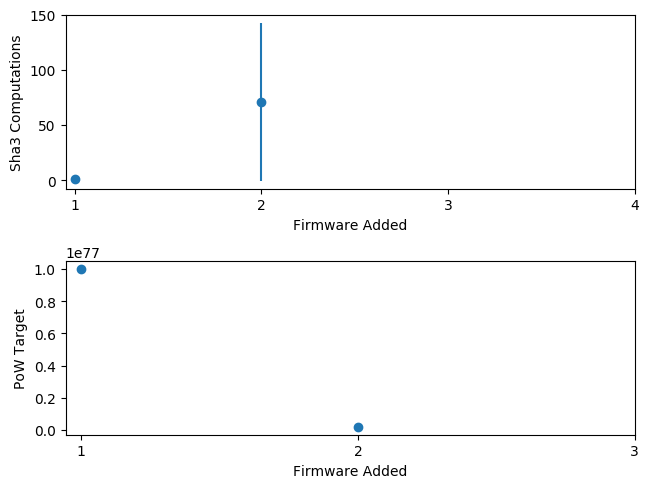
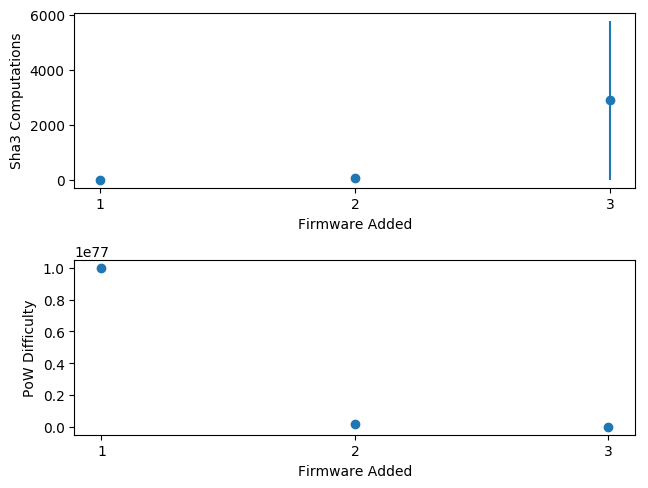
PoW theoretical plotter

diff --git a/evaluation_scripts/pow_calibration_plotter.py b/evaluation_scripts/pow_calibration_plotter.py
@@ -1,0 +1,41 @@
+import matplotlib.pyplot as plt
+import numpy as np
+
+save_dir = './evaluation_scripts/Plots/'
+
+def prob(n):
+    return (10.**77/(2.**256*50.**n))
+
+def expectation(n):
+    return 1/prob(n)
+
+def variance(n):
+    p = prob(n)
+    return (1-p)/(p*p)
+
+max_it = 3
+mean = []
+std = []
+difficulty = []
+x = np.arange(1,max_it+1)
+for ii in range(0,max_it):
+    print("For ii = {} expetation = {} and Std = {}".format(ii+1,expectation(ii),np.sqrt(variance(ii))))
+    mean.append(expectation(ii))
+    std.append(np.sqrt(variance(ii)))
+    difficulty.append(10.**77/(50.**ii))
+
+fig = plt.figure(1)
+plt.subplot(211)
+plt.errorbar(x,mean,std,fmt='o')
+plt.xticks(np.arange(1, max_it+1, step=1))
+plt.xlabel('Firmware Added')
+plt.ylabel('Sha3 Computations')
+plt.subplot(212)
+plt.scatter(x,difficulty)
+plt.xticks(np.arange(1, max_it + 1, step=1))
+plt.xlabel('Firmware Added')
+plt.ylabel('PoW Difficulty')
+
+fig.tight_layout(pad=0.4, w_pad=0.5, h_pad=1.0)
+fig.savefig(save_dir + 'pow_cost' +'.png',bbox_inches='tight')
+plt.show()
